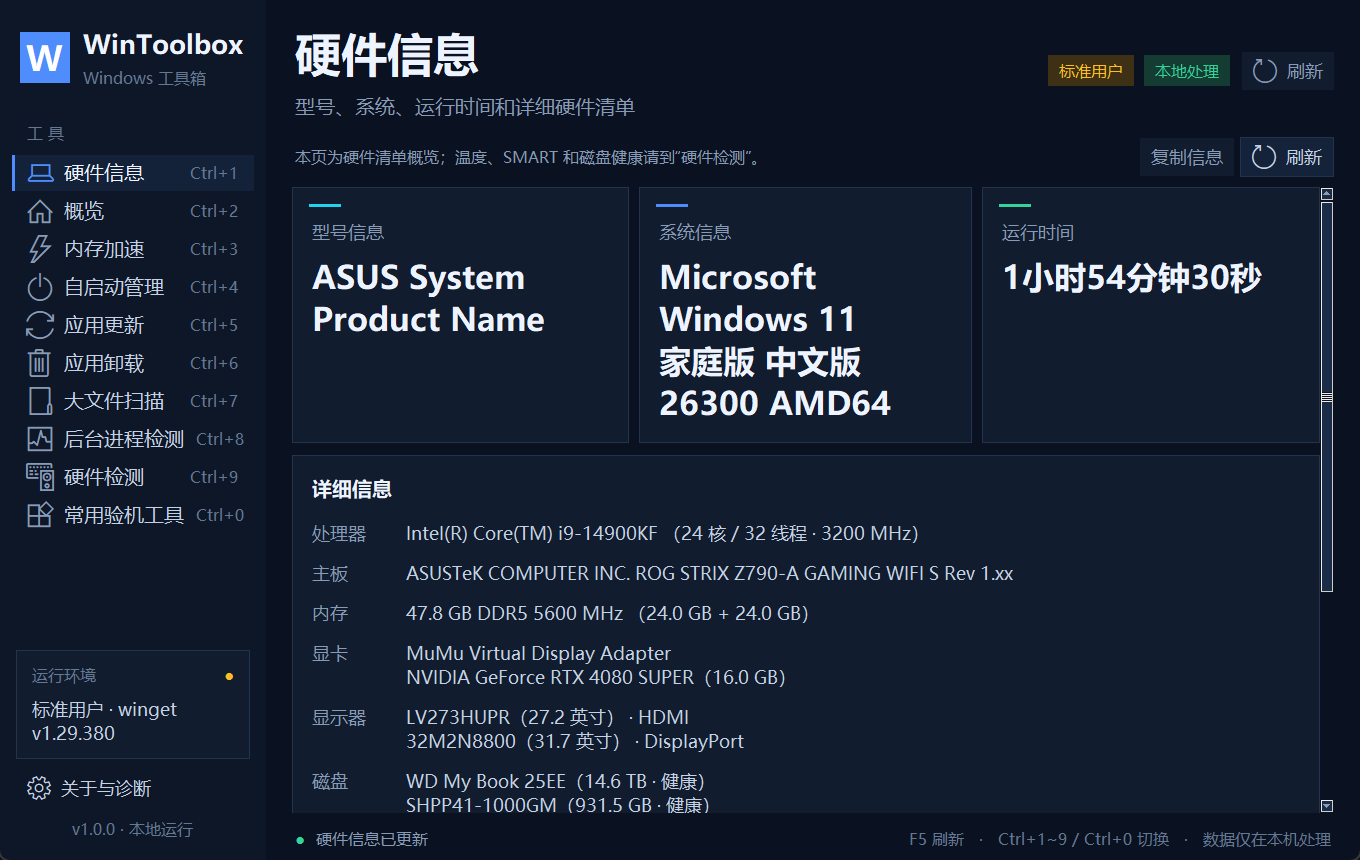
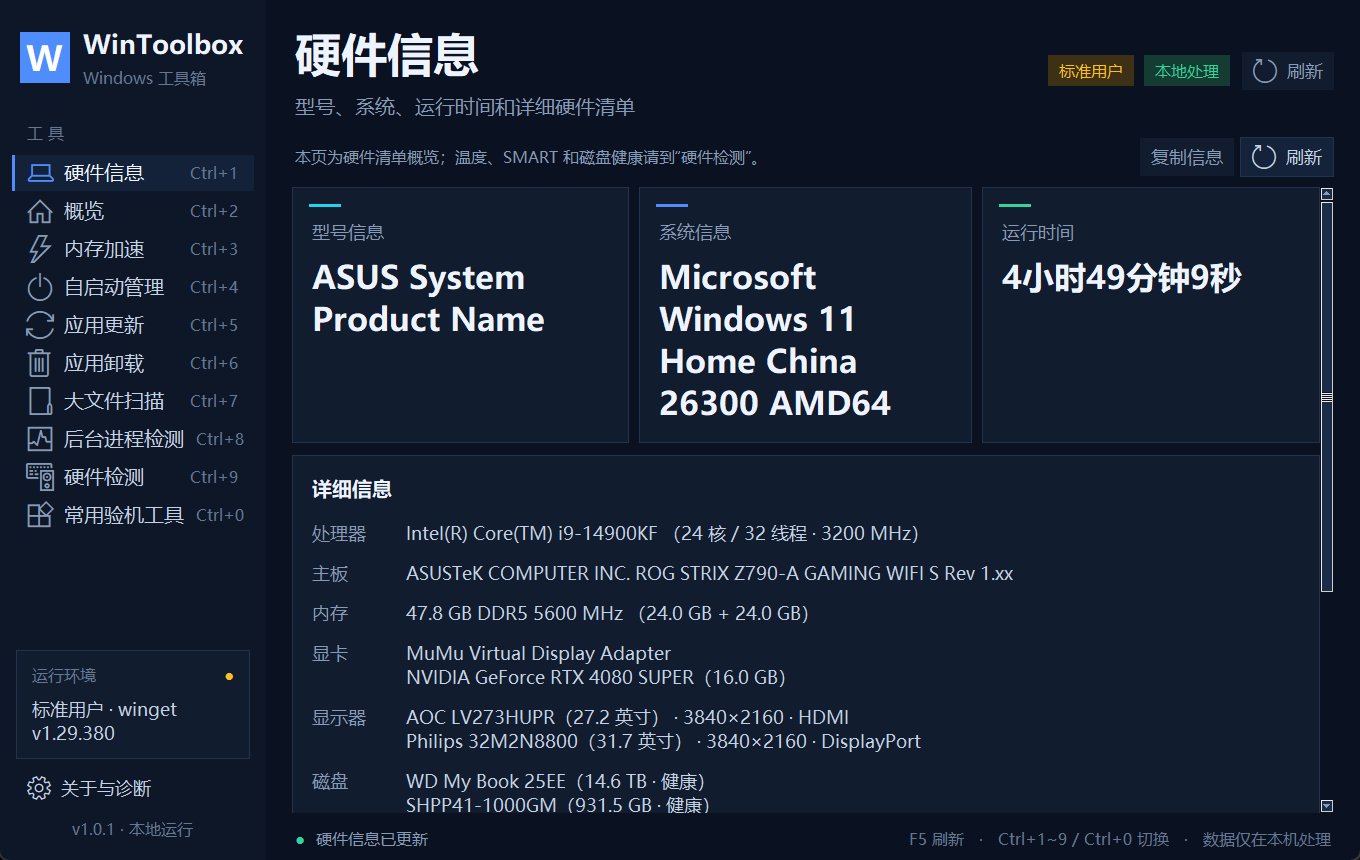
Show monitor vendor and native resolution

diff --git a/wintoolbox/services/hardware.py b/wintoolbox/services/hardware.py
@@ -47,6 +47,31 @@ MEMORY_TYPE_NAMES = {
     39: "GDDR6",
 }
 
+PNP_MANUFACTURERS = {
+    "AOC": "AOC",
+    "PHL": "Philips",
+    "DEL": "Dell",
+    "SAM": "Samsung",
+    "LEN": "Lenovo",
+    "HWP": "HP",
+    "BNQ": "BenQ",
+    "ACR": "Acer",
+    "ASU": "ASUS",
+    "MSI": "MSI",
+    "GSM": "LG",
+    "VSC": "ViewSonic",
+    "EIZ": "EIZO",
+    "NEC": "NEC",
+    "SII": "Seiko",
+    "APP": "Apple",
+    "IBM": "IBM",
+    "HKC": "HKC",
+    "SKY": "Skyworth",
+    "TCL": "TCL",
+    "HAI": "Hisense",
+    "XIA": "Xiaomi",
+}
+
 CONNECTION_NAMES = {
     -1: "其他",
     0: "VGA",
@@ -126,9 +151,12 @@ function Decode-Id($values) {
 $monitorIds = @(Get-CimInstance -Namespace root\wmi -ClassName WmiMonitorID)
 $monitorBasic = @(Get-CimInstance -Namespace root\wmi -ClassName WmiMonitorBasicDisplayParams)
 $monitorConn = @(Get-CimInstance -Namespace root\wmi -ClassName WmiMonitorConnectionParams)
+$sourceModes = @(Get-CimInstance -Namespace root\wmi -ClassName WmiMonitorListedSupportedSourceModes)
 $monitors = @(foreach ($m in $monitorIds) {
     $b = $monitorBasic | Where-Object { $_.InstanceName -eq $m.InstanceName } | Select-Object -First 1
     $c = $monitorConn | Where-Object { $_.InstanceName -eq $m.InstanceName } | Select-Object -First 1
+    $sm = $sourceModes | Where-Object { $_.InstanceName -eq $m.InstanceName } | Select-Object -First 1
+    $mode = @($sm.MonitorSourceModes) | Sort-Object { [int64]$_.HorizontalActivePixels * [int64]$_.VerticalActivePixels } -Descending | Select-Object -First 1
     [pscustomobject]@{
         name = Decode-Id $m.UserFriendlyName
         manufacturer = Decode-Id $m.ManufacturerName
@@ -136,6 +164,7 @@ $monitors = @(foreach ($m in $monitorIds) {
         year = $m.YearOfManufacture
         width_cm = $b.MaxHorizontalImageSize
         height_cm = $b.MaxVerticalImageSize
+        resolution = if ($mode) { "$($mode.HorizontalActivePixels)x$($mode.VerticalActivePixels)" } else { "" }
         connection = $c.VideoOutputTechnology
         active = if ($null -ne $b) { [bool]$b.Active } else { $false }
     }
@@ -419,7 +448,10 @@ def parse_hardware_json(payload: dict[str, Any]) -> HardwareInfo:
             if width_cm and height_cm
             else 0.0
         )
-        manufacturer = _text(item.get("manufacturer"))
+        manufacturer_code = _text(item.get("manufacturer"))
+        manufacturer = PNP_MANUFACTURERS.get(
+            manufacturer_code.upper(), manufacturer_code
+        )
         name = _text(item.get("name")) or "未知显示器"
         monitors.append(
             MonitorInfo(
@@ -430,6 +462,7 @@ def parse_hardware_json(payload: dict[str, Any]) -> HardwareInfo:
                 width_cm=width_cm,
                 height_cm=height_cm,
                 size_inches=size_inches,
+                resolution=_text(item.get("resolution")),
                 connection=CONNECTION_NAMES.get(
                     _int(item.get("connection"), -999), _text(item.get("connection"))
                 )

diff --git a/wintoolbox/ui/pages/hardware.py b/wintoolbox/ui/pages/hardware.py
@@ -339,6 +339,7 @@ class HardwarePage(BasePage):
                 ("name", "显示器", 220, "w"),
                 ("vendor", "厂商", 80, "w"),
                 ("size", "尺寸", 80, "e"),
+                ("resolution", "分辨率", 110, "e"),
                 ("year", "年份", 60, "e"),
                 ("connection", "接口", 90, "w"),
                 ("serial", "序列号", 150, "w"),
@@ -663,6 +664,9 @@ class HardwarePage(BasePage):
                         truncate_middle(monitor.name, 24),
                         monitor.manufacturer or "—",
                         f'{monitor.size_inches:g}"' if monitor.size_inches else "—",
+                        monitor.resolution.replace("x", "×")
+                        if monitor.resolution
+                        else "—",
                         str(monitor.year) if monitor.year else "—",
                         connection_short.get(monitor.connection, monitor.connection or "—"),
                         truncate_middle(monitor.serial or "—", 18),

diff --git a/tests/test_hardware.py b/tests/test_hardware.py
@@ -68,6 +68,7 @@ class HardwareParseTests(unittest.TestCase):
                         "year": 2024,
                         "width_cm": 60,
                         "height_cm": 34,
+                        "resolution": "3840x2160",
                         "connection": 10,
                         "active": True,
                     }
@@ -76,6 +77,8 @@ class HardwareParseTests(unittest.TestCase):
         )
         self.assertEqual(len(info.monitors), 1)
         self.assertEqual(info.monitors[0].name, "Test Monitor")
+        self.assertEqual(info.monitors[0].manufacturer, "Dell")
+        self.assertEqual(info.monitors[0].resolution, "3840x2160")
         self.assertEqual(info.monitors[0].connection, "DisplayPort")
         self.assertAlmostEqual(info.monitors[0].size_inches, 27.2, places=1)
         self.assertTrue(info.monitors[0].active)

diff --git a/wintoolbox/ui/pages/hardwareinfo.py b/wintoolbox/ui/pages/hardwareinfo.py
@@ -268,8 +268,17 @@ class HardwareInfoPage(BasePage):
         )
         self._values["monitor"].configure(
             text="\n".join(
-                f"{monitor.name}"
+                (
+                    f"{monitor.manufacturer} {monitor.name}".strip()
+                    if monitor.manufacturer
+                    else monitor.name
+                )
                 + (f"（{monitor.size_inches:g} 英寸）" if monitor.size_inches else "")
+                + (
+                    f" · {monitor.resolution.replace('x', '×')}"
+                    if monitor.resolution
+                    else ""
+                )
                 + (f" · {monitor.connection}" if monitor.connection else "")
                 for monitor in info.monitors
             )

diff --git a/wintoolbox/models.py b/wintoolbox/models.py
@@ -291,6 +291,7 @@ class MonitorInfo:
     width_cm: int = 0
     height_cm: int = 0
     size_inches: float = 0.0
+    resolution: str = ""
     connection: str = ""
     active: bool = False
 
